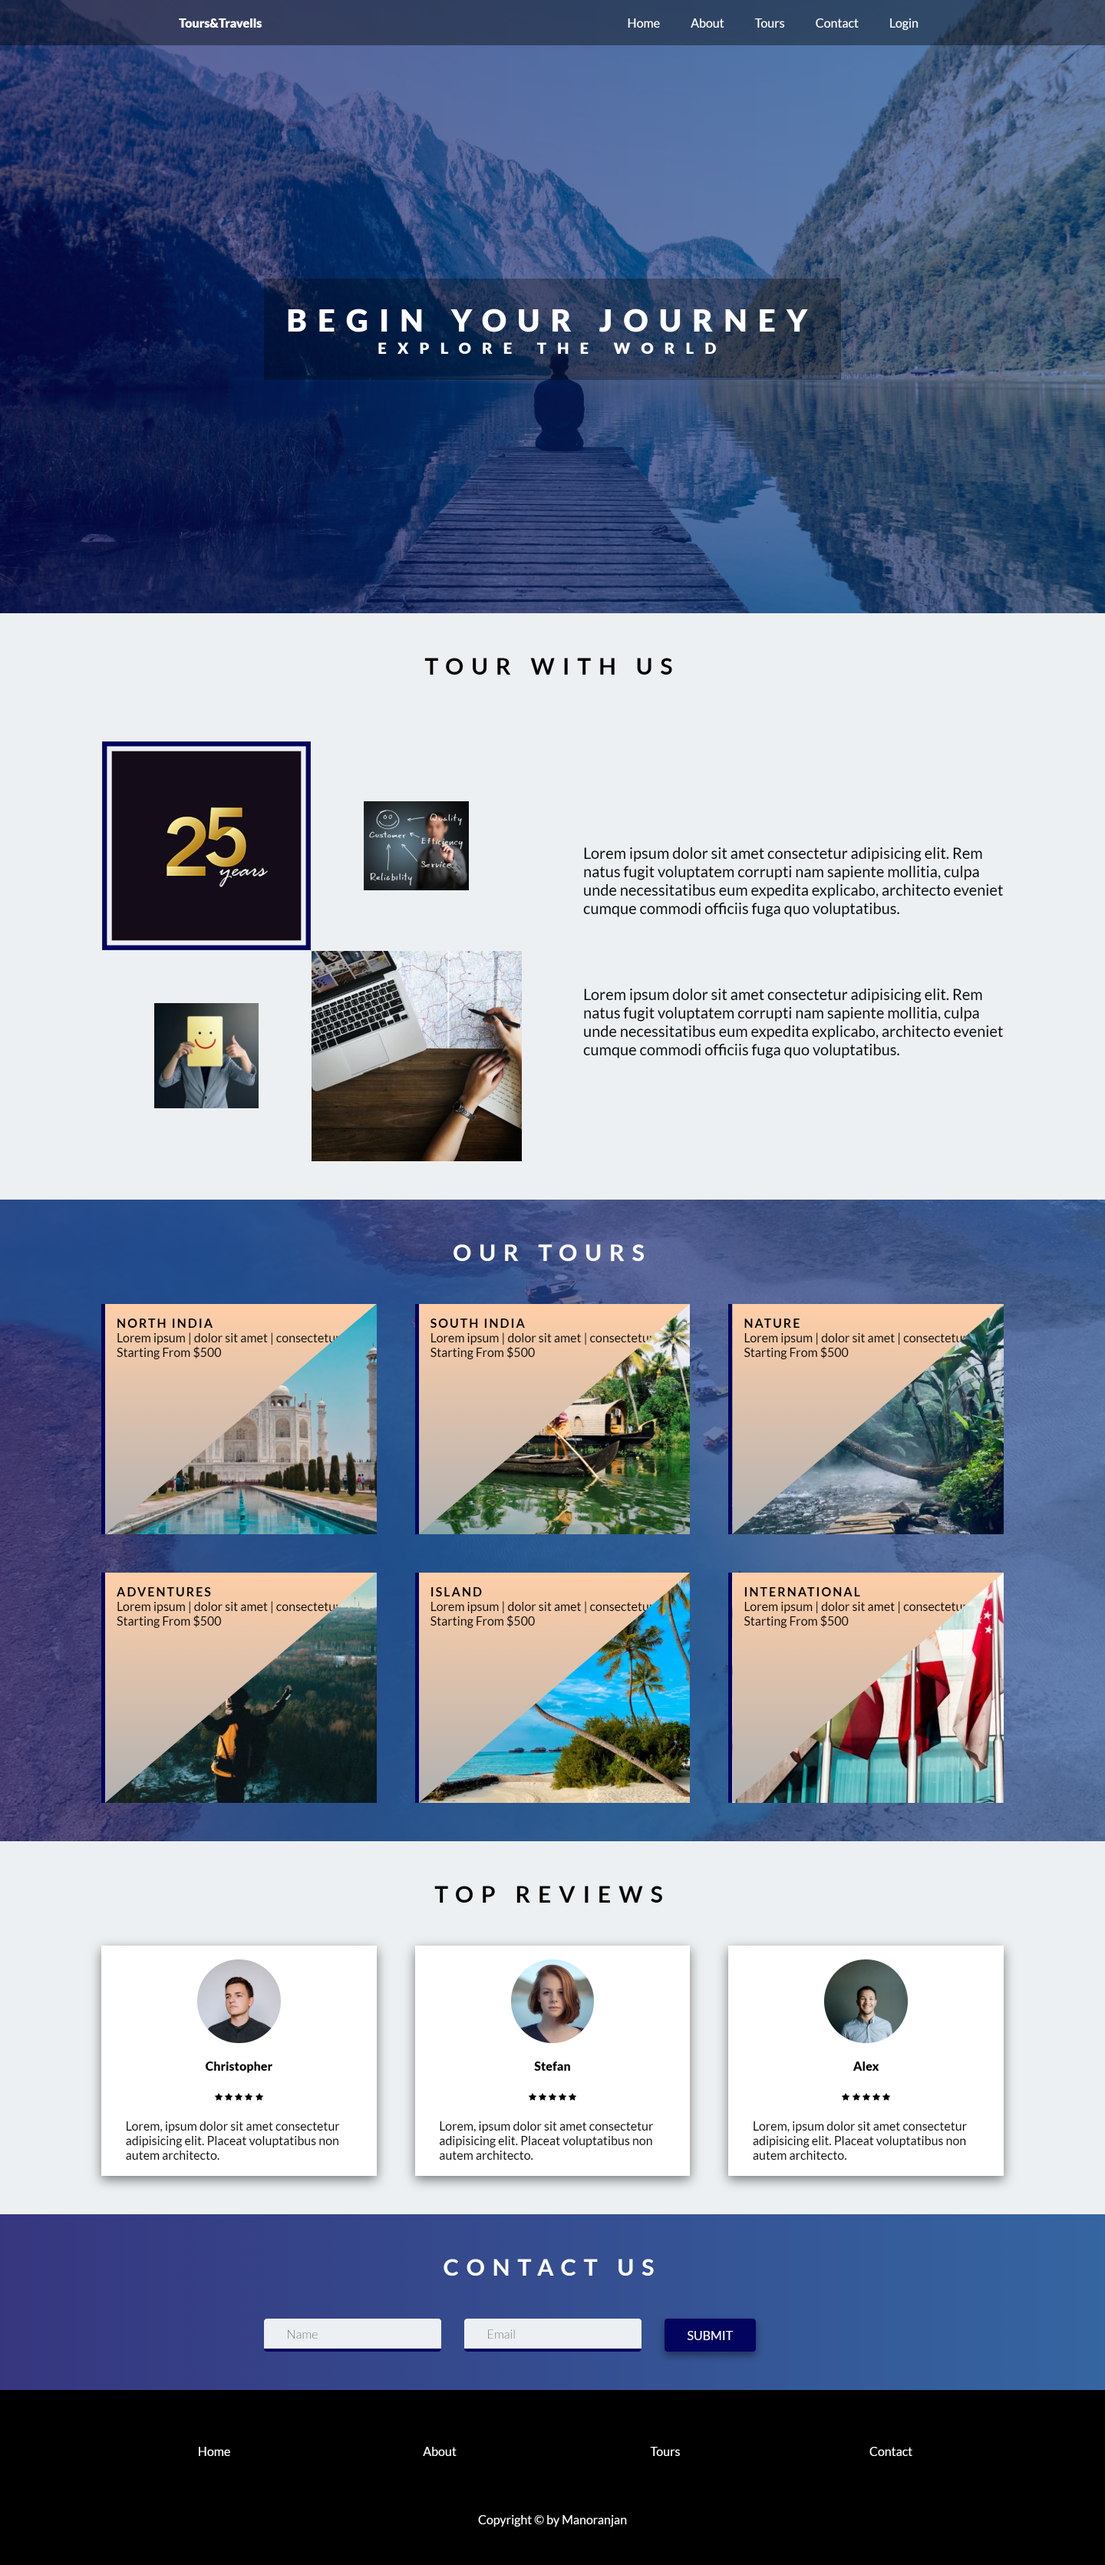
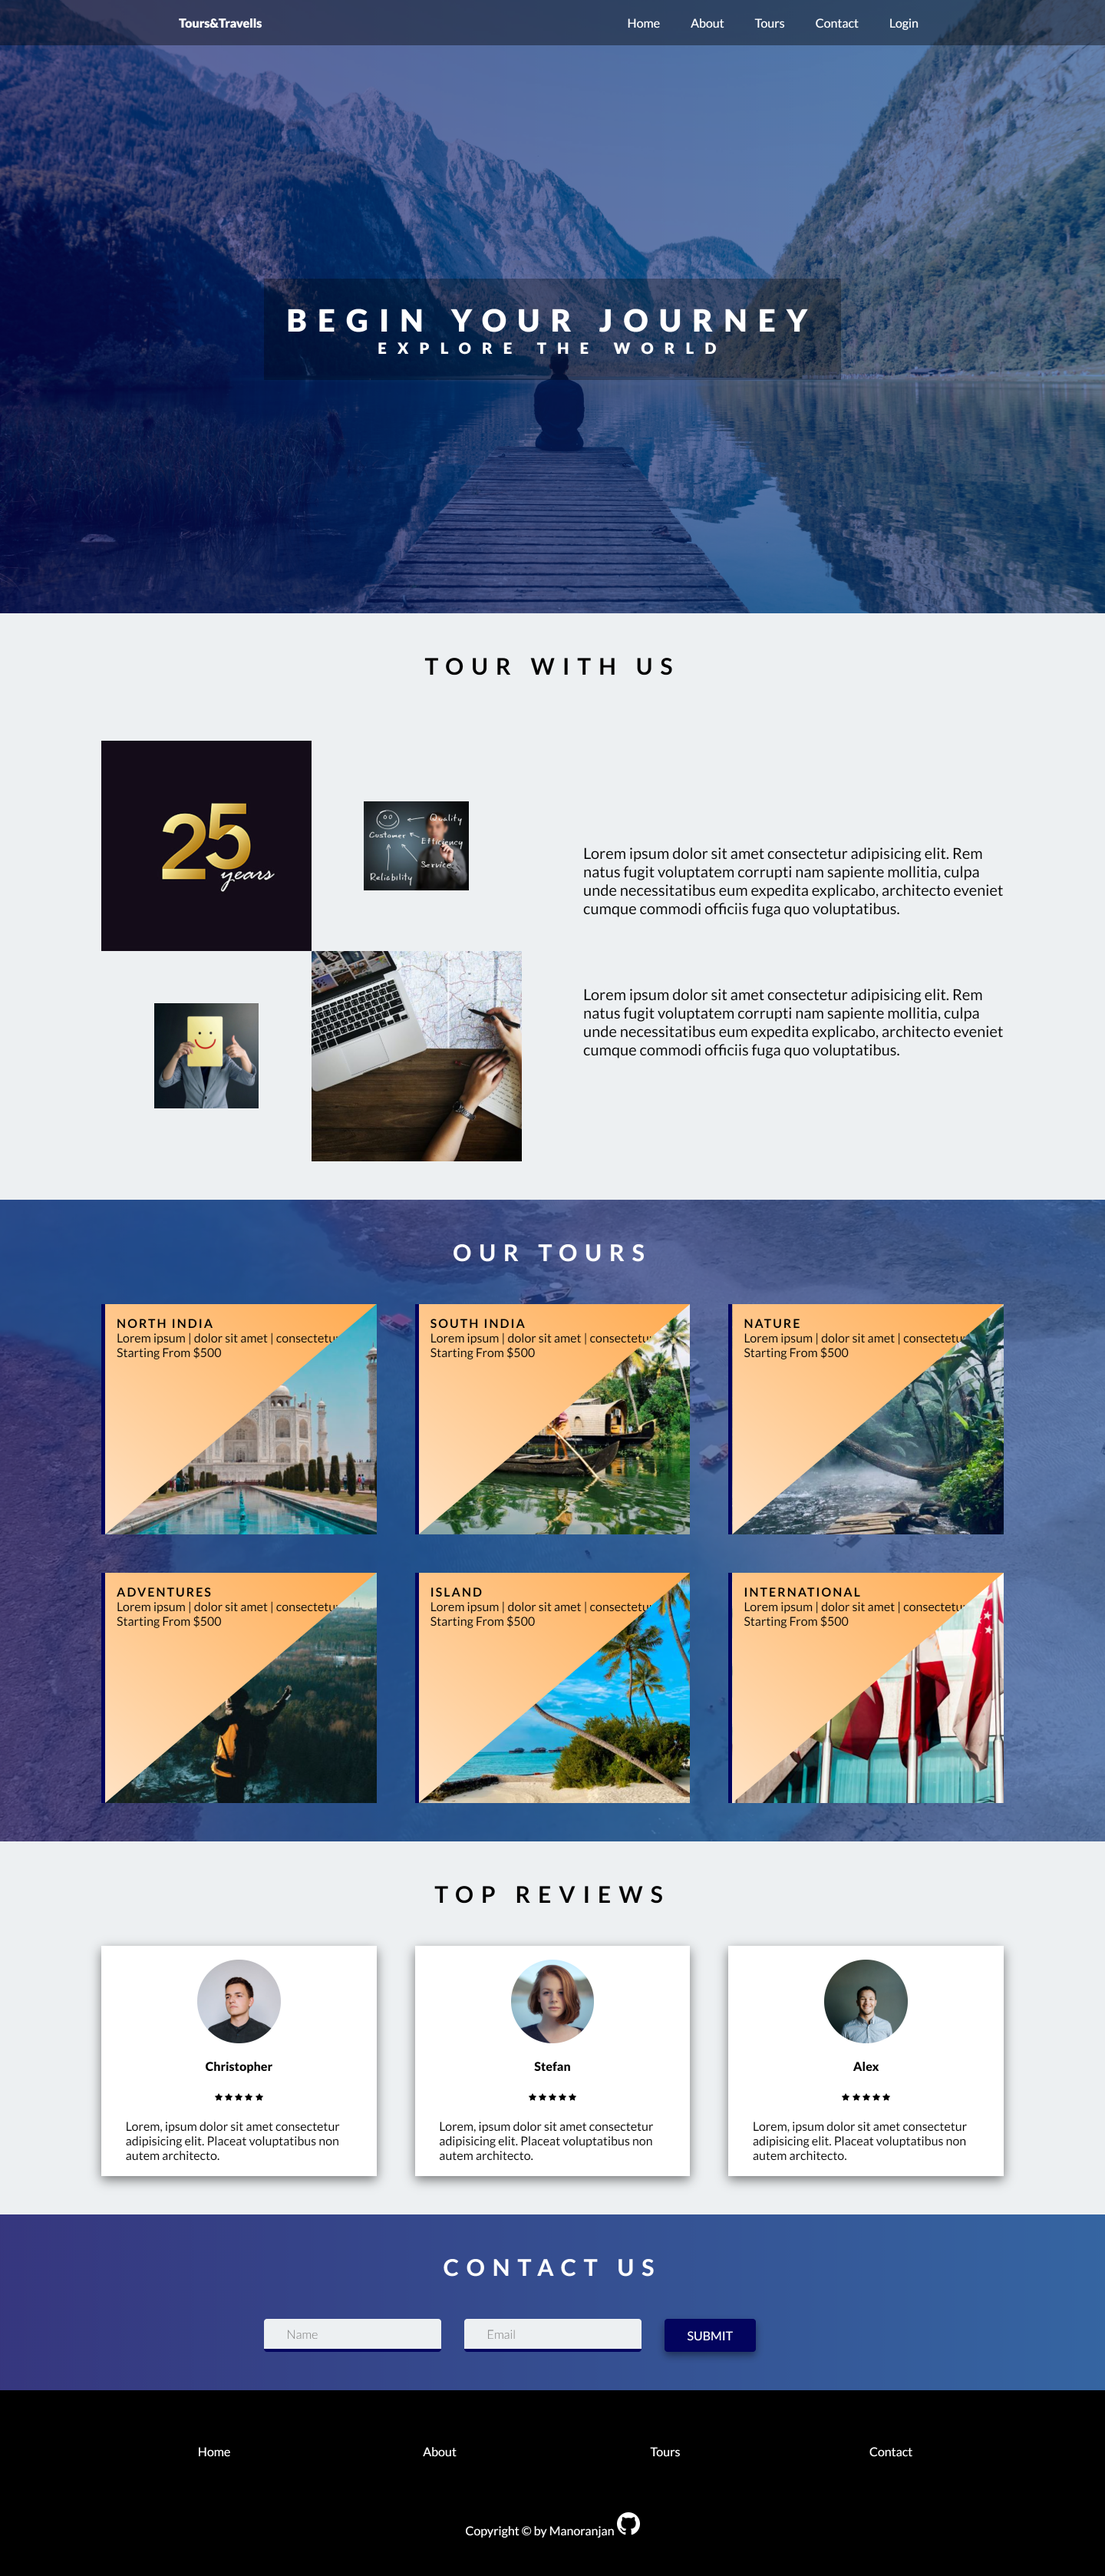
optimized

diff --git a/css/style.css b/css/style.css
@@ -127,10 +127,14 @@ body {
   grid-template-columns: repeat(auto-fit, minmax(6rem, 1fr));
   justify-items: center; }
 
-.legal__text {
-  color: #fff;
-  font-size: 1.6rem;
-  text-align: center; }
+.legal {
+  display: flex;
+  justify-content: center;
+  align-items: center; }
+  .legal__text {
+    color: #fff;
+    font-size: 1.6rem;
+    text-align: center; }
 
 .header {
   grid-column: 1/-1;
@@ -281,7 +285,7 @@ body {
   .tour__content {
     height: 30rem;
     padding: 1.5rem;
-    background: linear-gradient(#ffcea7, #b1b1b1);
+    background: linear-gradient(to left bottom, #ffaa4f, #ffb86c, #ffc689, #ffd4a6, #ffe2c4);
     -webkit-clip-path: polygon(0 0, 100% 0%, 100% 0, 0 100%);
             clip-path: polygon(0 0, 100% 0%, 100% 0, 0 100%);
     box-shadow: 0 2.5rem 2rem rgba(0, 0, 0, 0.5);
@@ -375,4 +379,4 @@ section > :first-child {
   letter-spacing: clamp(0.3rem, 1vw, 1rem);
   text-transform: uppercase; }
 
[2 lines of base64/hex data omitted]

diff --git a/index.html b/index.html
@@ -277,7 +277,15 @@
           </nav>
 
           <div class="legal">
-            <div class="legal__text">Copyright &copy; by Manoranjan</div>
+            <div class="legal__text">
+              Copyright &copy; by Manoranjan
+              <a
+                href="https://github.com/Manoranjan-D/responsive-website-tourism"
+                target="_blank"
+              >
+                <img src="img/github.svg" alt="github" class="github" />
+              </a>
+            </div>
           </div>
         </footer>
       </section>

diff --git a/sass/_tours.scss b/sass/_tours.scss
@@ -70,8 +70,14 @@
   &__content {
     height: 30rem;
     padding: 1.5rem;
-
-    background: linear-gradient(#ffcea7, #b1b1b1);
+    background: linear-gradient(
+      to left bottom,
+      #ffaa4f,
+      #ffb86c,
+      #ffc689,
+      #ffd4a6,
+      #ffe2c4
+    );
     clip-path: polygon(0 0, 100% 0%, 100% 0, 0 100%);
     box-shadow: 0 2.5rem 2rem rgba(0, 0, 0, 0.5);
     transition: all 0.3s;

diff --git a/sass/_footer.scss b/sass/_footer.scss
@@ -21,6 +21,10 @@
 }
 
 .legal {
+  display: flex;
+  justify-content: center;
+  align-items: center;
+
   &__text {
     color: #fff;
     font-size: 1.6rem;
